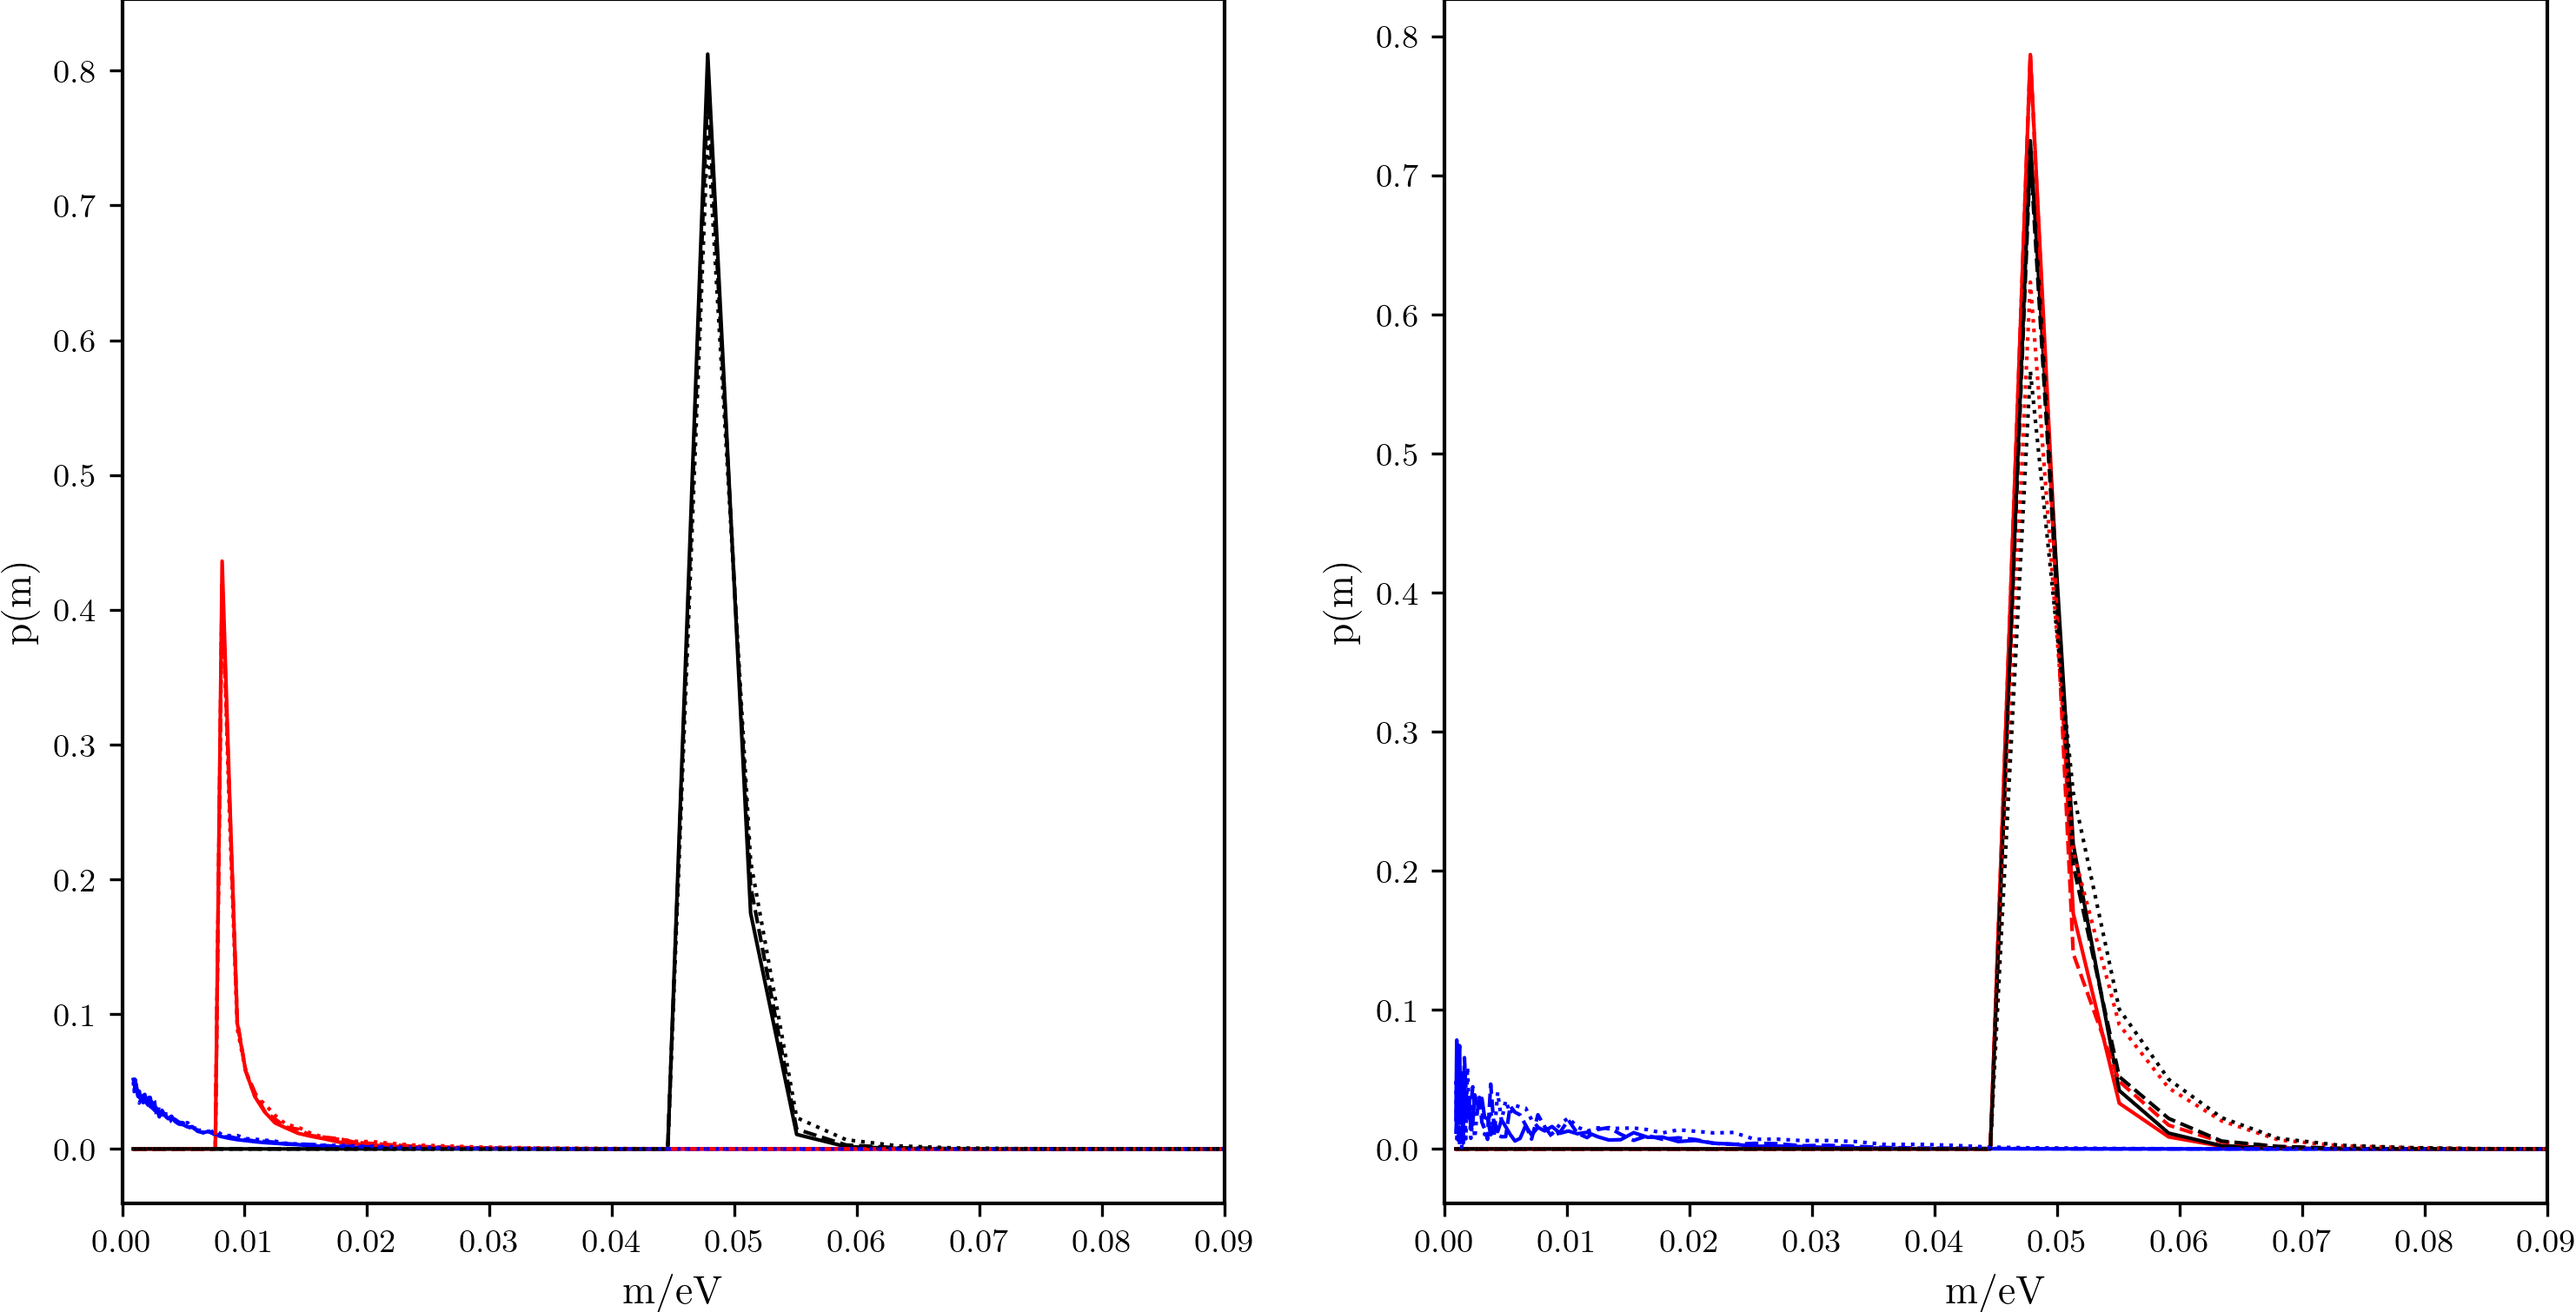
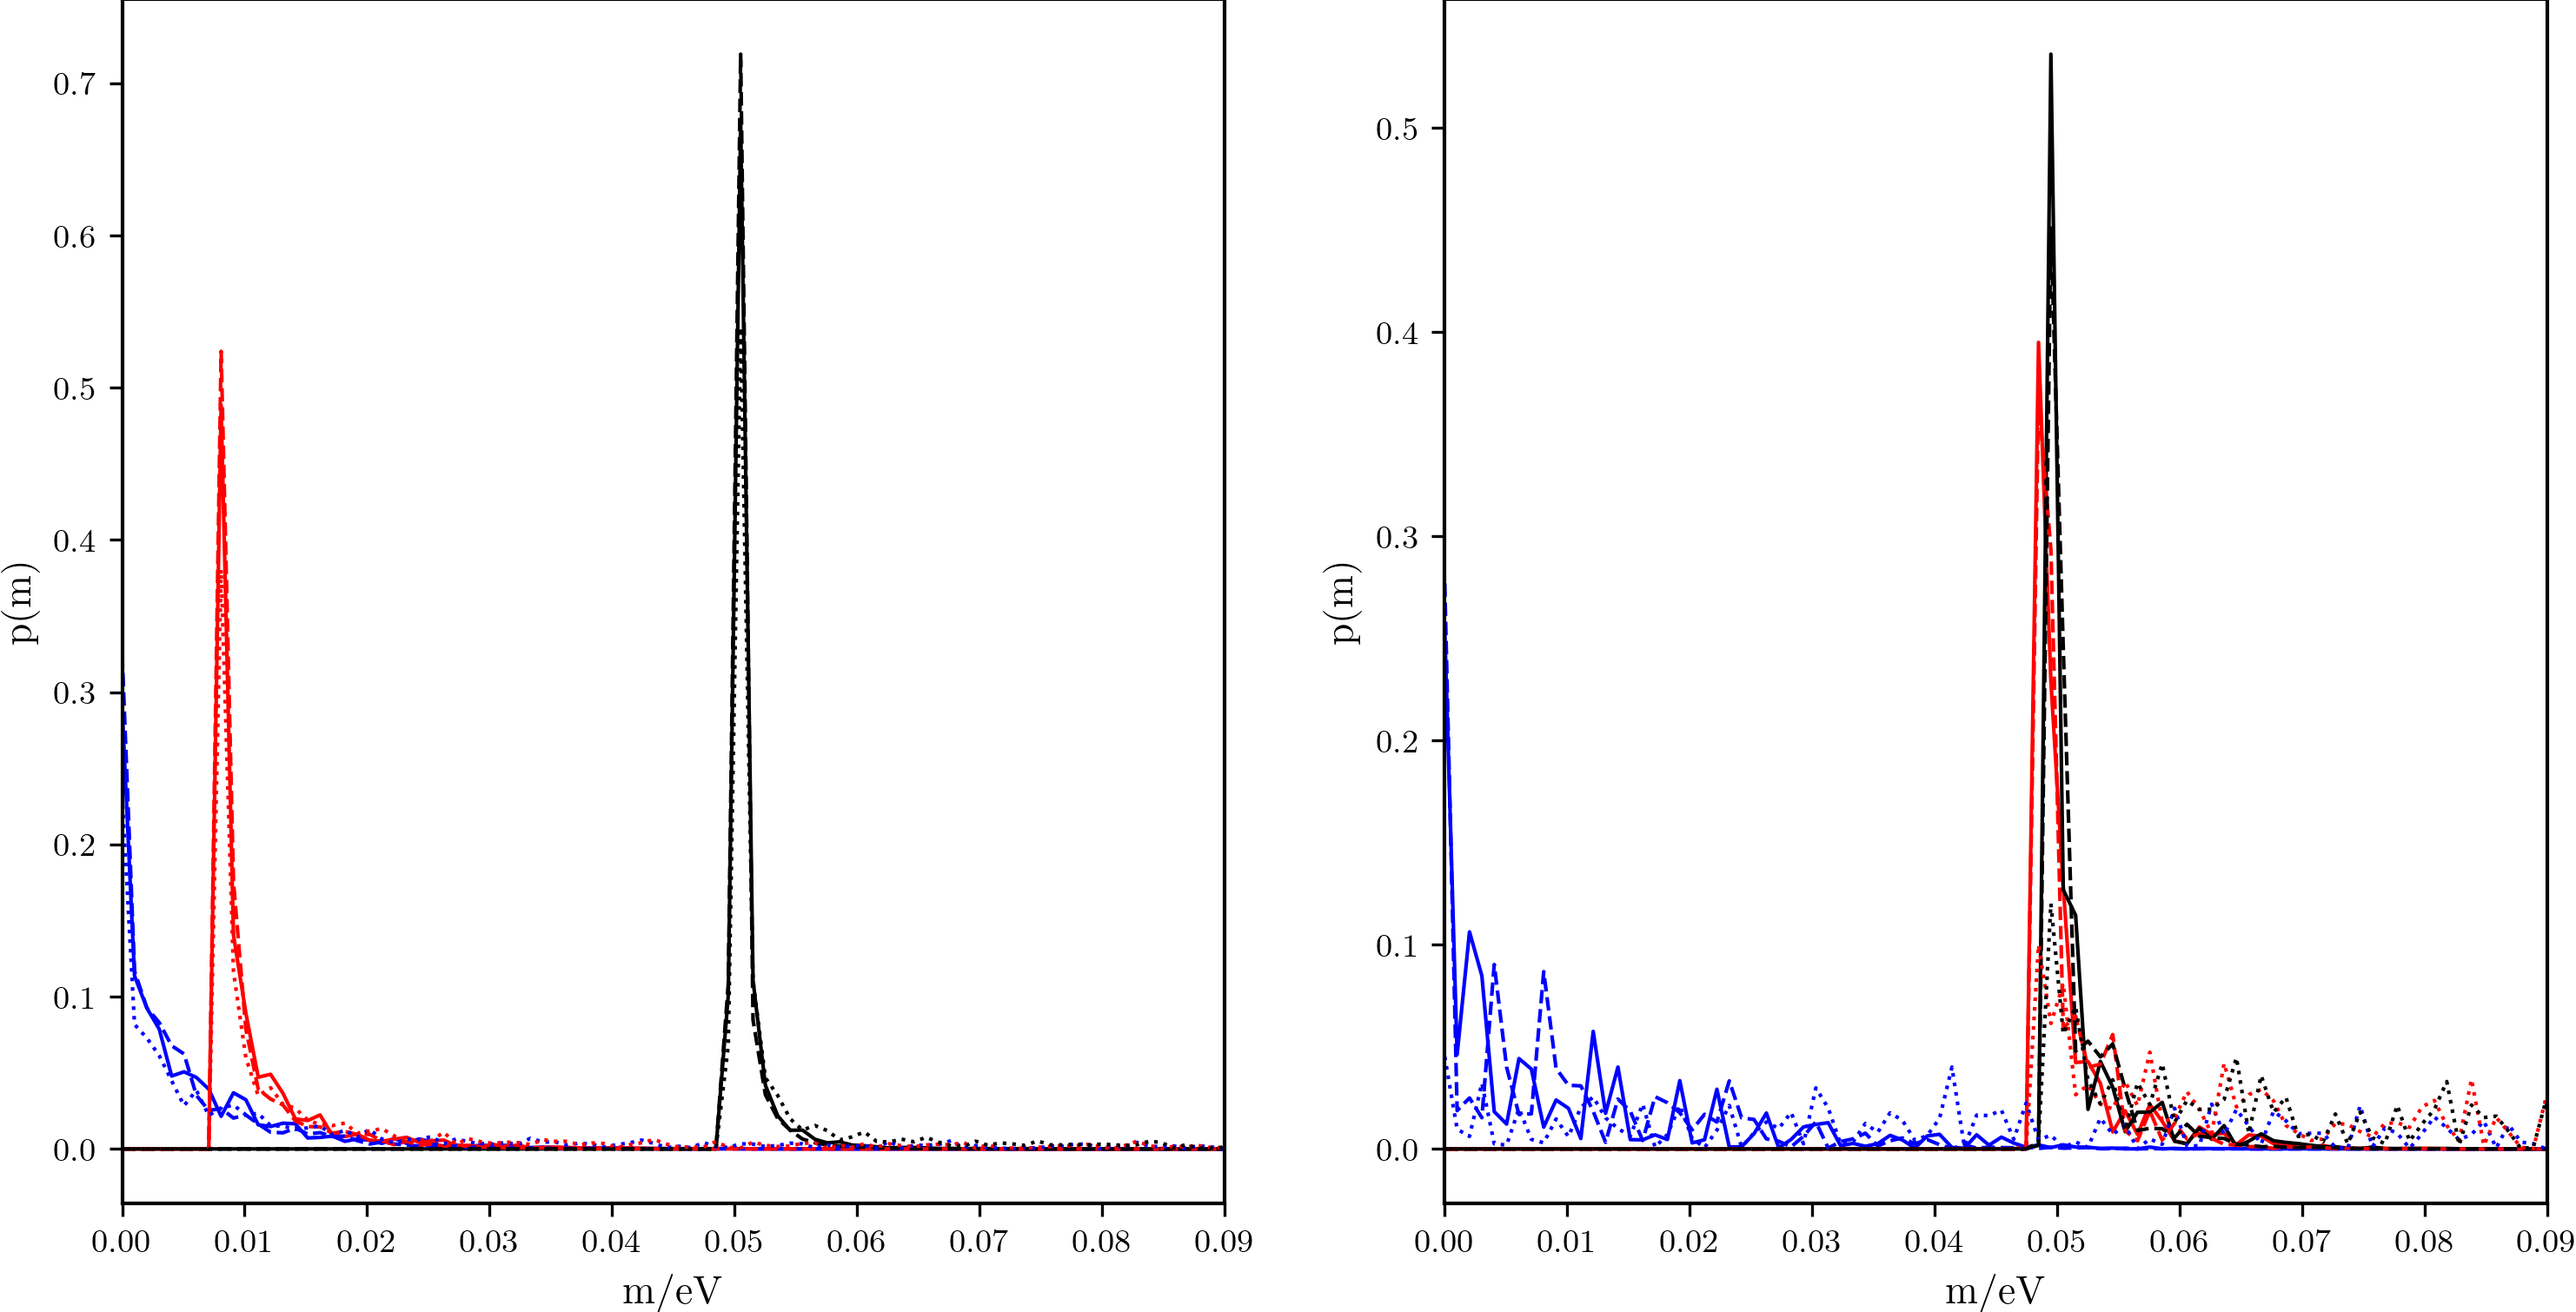
Add ultranest script

Changed region(s): [[0.031, 0.0623, 0.4656, 0.9026], [0.5587, 0.0623, 0.9933, 0.9026], [0.5277, 0.2179, 0.5587, 0.249]]

diff --git a/inference/calc_likelihood.py b/inference/calc_likelihood.py
@@ -10,14 +10,13 @@ from neutrinos.hierarchies import Hierarchy
 from inference.utils import load_posterior, save_posterior
 
 
-def get_likelihood_mu_sigma(data, hierarchy: Hierarchy, likeli: Optional[LikelihoodGrid] = None):
+def get_likelihood_mu_sigma(data, hierarchy: Hierarchy, n_samples: int):
     """ Span mu sigma grid and collect mass posterior along the way. """
 
-    if likeli is None:
-        likeli = get_default_grid()
+    likeli = get_default_grid(n_samples=n_samples)
 
     n_mu = len(likeli.muArray)
-    bin_edges = likeli.mass_log_bins
+    bin_edges = likeli.mass_bins
 
     for i, mu in enumerate(likeli.muArray):
         for j, sigma in enumerate(likeli.sigmaArray):
@@ -28,11 +27,11 @@ def get_likelihood_mu_sigma(data, hierarchy: Hierarchy, likeli: Optional[Likelih
             weights = np.exp(loglikeli)
 
             for n in range(3):
-                samples_posterior, _ = np.histogram(logsamples[:, n], bin_edges, weights=weights)
+                samples_posterior, _ = np.histogram(samples[:, n], bin_edges, weights=weights)
                 likeli.mass_posterior[:-1, n] += samples_posterior
 
-            log_sum_of_masses = np.log(np.sum(samples, axis=1))
-            sum_of_masses_posterior, _ = np.histogram(log_sum_of_masses, bin_edges, weights=weights)
+            sum_of_masses = np.sum(samples, axis=1)
+            sum_of_masses_posterior, _ = np.histogram(sum_of_masses, bin_edges, weights=weights)
             likeli.mass_posterior[:-1, 3] += sum_of_masses_posterior
 
             likeli.loglikelihood[i, j] = logsumexp(loglikeli) - np.log(likeli.n_samples)
@@ -71,7 +70,7 @@ def get_posterior(hierarchy, data, n_samples: int = N_DEFAULT_SAMPLES):
     try:
         posterior = load_posterior(hierarchy, data, n_samples)
     except FileNotFoundError:
-        posterior = get_likelihood_mu_sigma(data, hierarchy)
+        posterior = get_likelihood_mu_sigma(data, hierarchy, n_samples)
         save_posterior(hierarchy, data, posterior)
 
     return posterior

diff --git a/scripts/plot_mass_posteriors.py b/scripts/plot_mass_posteriors.py
@@ -6,7 +6,8 @@ from inference.utils import print_figure
 from neutrinos.constraints import load_neutrino_constraints
 from neutrinos.hierarchies import Hierarchy
 
-SUM_OF_MASSES_ONE_SIGMA = np.array([0.089, 0.099, 0.12]) * 0.5
+N_SAMPLES = 10_000
+SUM_OF_MASSES_ONE_SIGMA = np.array([0.12, 0.102, 0.89]) * 0.5
 SUM_OF_MASSES_OFFSET = [0, 0, 0]  # Corresponding offsets
 LINESTYLES = ['-', '--', ':']
 COLOURS = ['b', 'r', 'k']
@@ -24,7 +25,7 @@ def make_mass_plot(log_mass: bool = False):
             data.sum_of_masses_offset = SUM_OF_MASSES_OFFSET[j]
             linestyle = LINESTYLES[j]
 
-            likeligrid = get_posterior(hierarchy, data)
+            likeligrid = get_posterior(hierarchy, data, n_samples=N_SAMPLES)
 
             for m in range(3):
                 y = likeligrid.mass_posterior[:, m]
@@ -32,8 +33,9 @@ def make_mass_plot(log_mass: bool = False):
                 if log_mass:
                     axes[i].plot(likeligrid.mass_log_bins, y, linestyle=linestyle, color=COLOURS[m])
                 else:
-                    mass = np.exp(likeligrid.mass_log_bins)
-                    y /= mass  # p(m) = p(log m) / m
+                    # mass = np.exp(likeligrid.mass_log_bins)
+                    # y /= mass  # p(m) = p(log m) / m
+                    mass = likeligrid.mass_bins
                     y /= np.sum(y)
                     axes[i].plot(mass, y, linestyle=linestyle, color=COLOURS[m])
 

diff --git a/scripts/make_mass_posteriors.py b/scripts/make_mass_posteriors.py
@@ -1,0 +1,21 @@
+import numpy as np
+
+from matplotlib import pyplot as plt
+from inference.ultranest_log import run_ultranest
+from neutrinos.constraints import load_neutrino_constraints
+from neutrinos.hierarchies import Hierarchy
+
+SUM_OF_MASSES_ONE_SIGMA = np.array([0.12, 0.102, 0.89]) * 0.5
+SUM_OF_MASSES_OFFSET = [0, 0, 0]  # Corresponding offsets
+LINESTYLES = ['-', '--', ':']
+COLOURS = ['b', 'r', 'k']
+plt.style.use("../jcappaper.mplstyle")
+
+data = load_neutrino_constraints()
+
+for i, hierarchy in enumerate(Hierarchy):
+    for j, upper_bound in enumerate(SUM_OF_MASSES_ONE_SIGMA):
+        data.sum_of_masses_one_sigma = upper_bound
+        data.sum_of_masses_offset = SUM_OF_MASSES_OFFSET[j]
+
+        run_ultranest(hierarchy, data)

diff --git a/inference/sampling.py b/inference/sampling.py
@@ -4,6 +4,8 @@ import numpy as np
 from neutrinos.constraints import NeutrinoConstraint
 from neutrinos.hierarchies import Hierarchy
 
+LOG_TWO_PI = np.log(2 * np.pi)
+
 
 def make_normalised_samples(n_samples: int):
     """ Create a base set of random samples drawn from a Gaussian prior to represent the three neutrino masses. """
@@ -100,4 +102,4 @@ def get_prior_from_samples(samples, bin_edges, plot_type):
 
 def log_pdf(measurement, data, error) -> np.ndarray:
     """ Faster than using official logpdf routines. """
-    return -0.5*((measurement - data)/error) ** 2 - np.log(error) - 0.5 * np.log(2 * np.pi)
+    return -0.5 * ((measurement - data)/error) ** 2 - np.log(error) - 0.5 * LOG_TWO_PI

diff --git a/inference/utils.py b/inference/utils.py
@@ -39,6 +39,16 @@ def get_savefile_name(hierarchy: Hierarchy, data: NeutrinoConstraint, n_samples:
     return path + prefix + 'likeli_' + hierarchy_str + '_' + sum_str + '_' + sample_str
 
 
+def get_ultranest_dir(hierarchy: Hierarchy, data: NeutrinoConstraint):
+    """ Directory used by ultranest, """
+
+    hierarchy_str = 'nh' if hierarchy == Hierarchy.Normal else 'ih'
+    sum_str = str(data.sum_of_masses_one_sigma)[:5]  # Max 5 sig fig
+
+    prefix = '' if data.sum_of_masses_offset == 0.else str(data.sum_of_masses_offset) + '_'
+    return "ultra_" + prefix + hierarchy_str + '_' + sum_str
+
+
 def print_figure(filename: str, path: str = './plots/'):
 
     plt.savefig(path + filename,

diff --git a/inference/grids.py b/inference/grids.py
@@ -18,6 +18,7 @@ class LikelihoodGrid:
     prior_power: int = 0
     mass_posterior = np.zeros((N_MASS_BINS, 4))  # Final column is for the sum of masses
     mass_log_bins = np.linspace(-7, 0, N_MASS_BINS)
+    mass_bins = np.linspace(0., 0.1, N_MASS_BINS) # For plotting
 
     @property
     def logprior(self):
